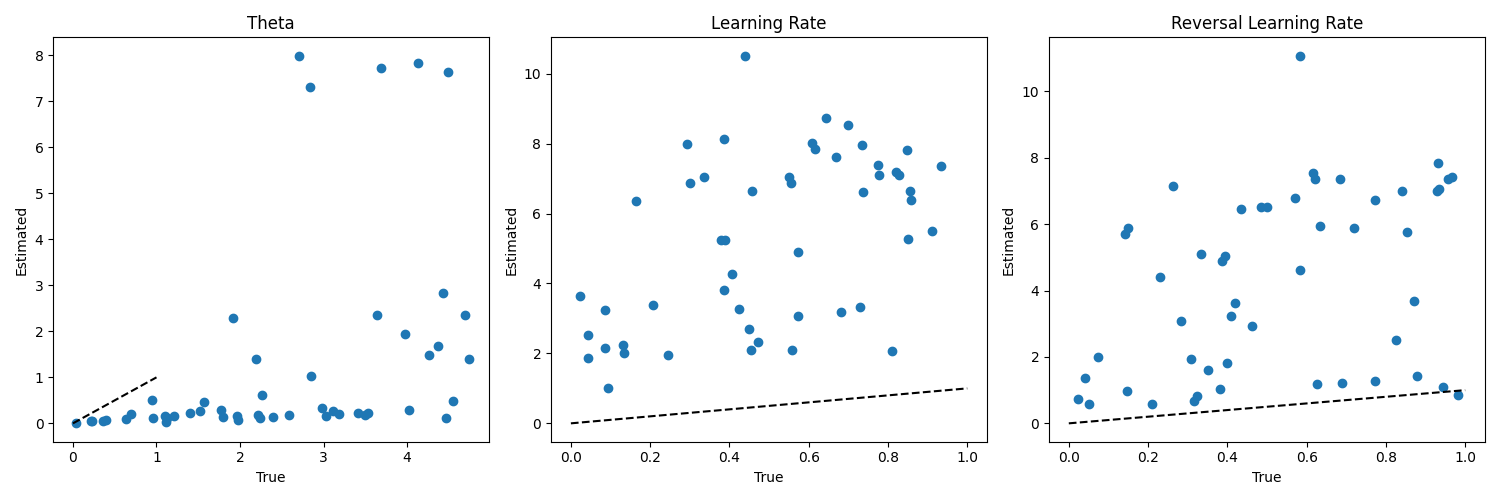
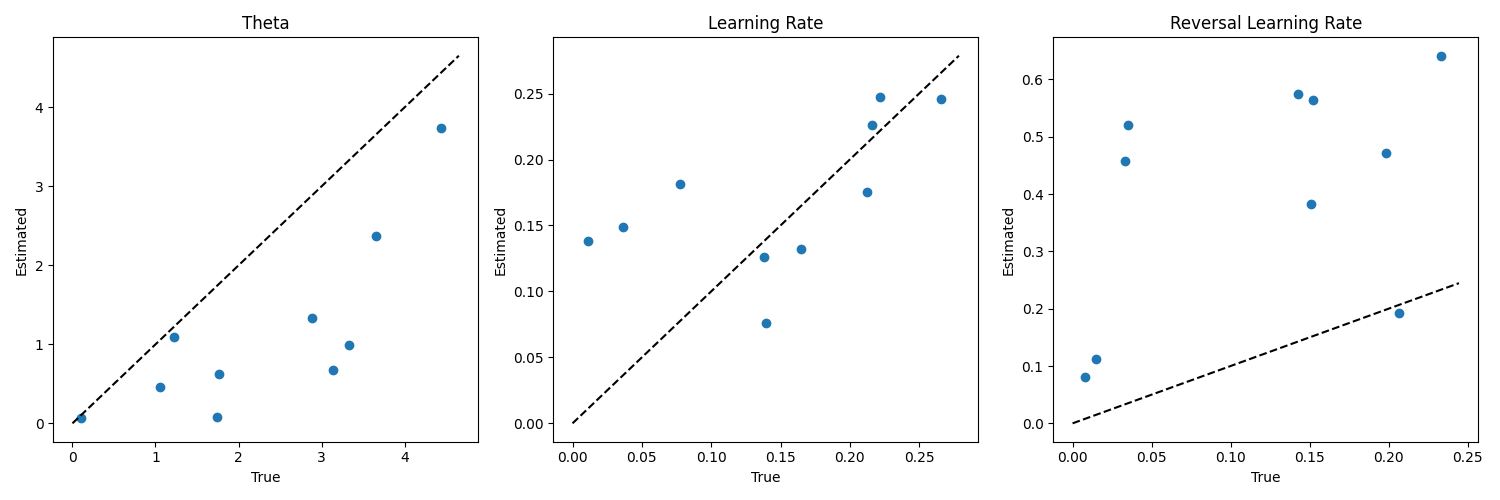
updates

diff --git a/parameter_recovery.py b/parameter_recovery.py
@@ -21,10 +21,10 @@ def test_parameter_recovery(n_subjects, model_spec, savepath = None):
 
     for subject in range(n_subjects):
 
-        # choose random parameters
+        # choose random parameters UPDATE THIS
         theta = np.random.uniform(0, 5)
-        learning_rate = np.random.uniform(0, 1)
-        reversal_learning_rate = np.random.uniform(0, 1)
+        learning_rate = np.random.uniform(0, 0.3)
+        reversal_learning_rate = np.random.uniform(0, 0.3)
 
         # generate synthetic data
         _, stimuli, response, hit = experimental_loop(
@@ -78,7 +78,8 @@ def test_parameter_recovery(n_subjects, model_spec, savepath = None):
 
 def plot_recovery_ax(ax, true, estimated, parameter_name):
     ax.scatter(true, estimated)
-    ax.plot([0, 1], [0, 1], color = "black", linestyle = "dashed")
+    x_lims = ax.get_xlim()
+    ax.plot([0, x_lims[1]], [0, x_lims[1]], color = "black", linestyle = "dashed")
     ax.set_xlabel("True")
     ax.set_ylabel("Estimated")
     ax.set_title(parameter_name.title())
@@ -90,7 +91,7 @@ if __name__ in "__main__":
     with open(path / "model_single_subject.stan") as f:
         model_spec = f.read()
     
-    n_subjects = 50
+    n_subjects = 10
 
     test_parameter_recovery(n_subjects, model_spec, savepath = path / "parameter_recovery.png")
 
